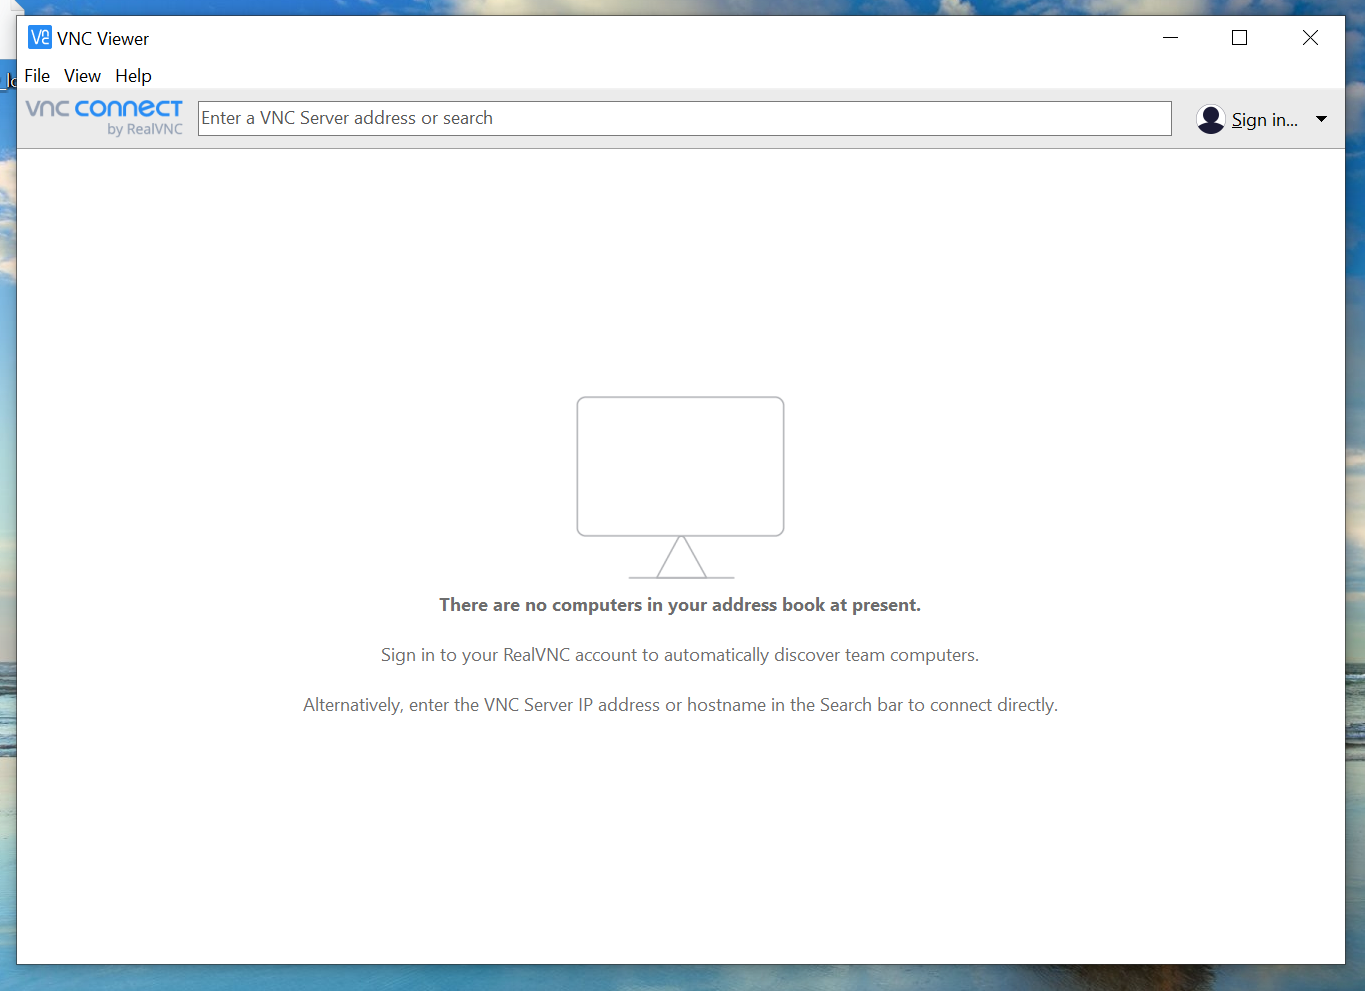
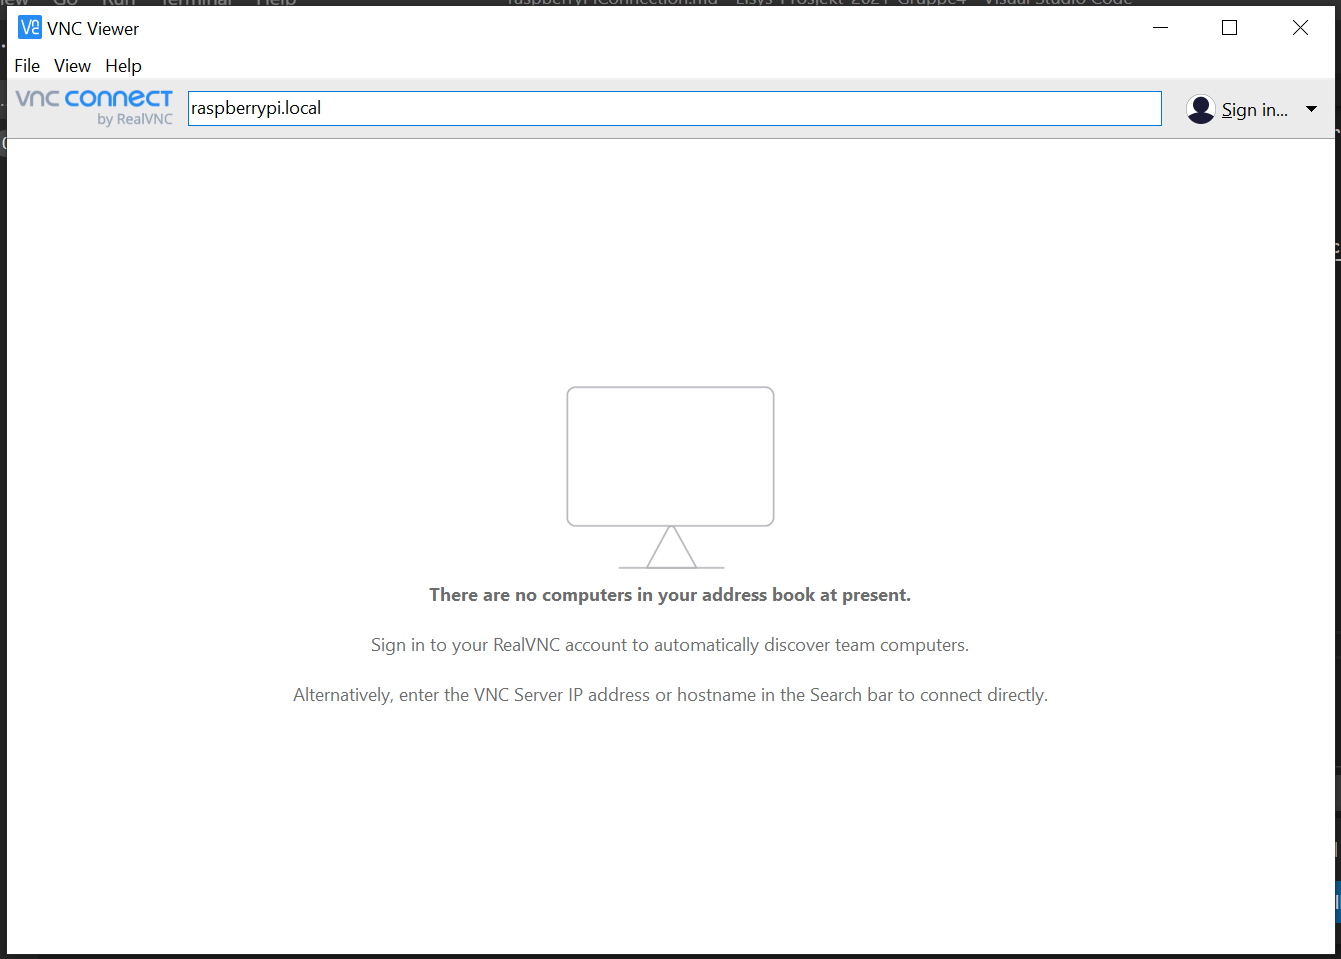
More guiding

diff --git a/raspberryPiConnection.md b/raspberryPiConnection.md
@@ -12,6 +12,23 @@ Nå finnes det to måter å koble til på. Enten ved hjelp av nettverkskabel ell
 
 For å koble til fysisk, må du ha en ethernet-kabel og en pc med ethernet kontakt. Koble så Raspberry Pi sammen med PCen, med kabelen.
 
-Så åpner du *VNC Viewer* og skriver `raspberry.local` i feltet øverst.
+Så åpner du *VNC Viewer* og skriver `raspberrypi.local` i feltet øverst.
 
 ![Start screen of VNCViewer](images/vncBlank.png "VNCViewer")
+
+Så blir du bedt om å logge inn, og da er brukernavnet *pi* og passordet er *password*, som vist på bildet under.
+
+![Login window for VNCViewer and login info.](images/login.png "Login window when logging in through cable.")
+
+Når du trykker *Ok*, så skal du bli koblet inn på Raspberry PIen, og blitt møtt av skrivebordet til PIen, som vist på bildet under.
+
+![Raspberry PIens skrivebord.](images/desktop.png "Skrivebordet til Raspberry PIen.")
+
+### Step 2b - Trådløs tilkobling.
+Hvis du skal koble til trådløst, må du først sørge for at Raspberry PIen og PCen din er tilkoblet samme Wifi. Når de er tilkoblet, så skriver du inn følgende ip-adresse i feltet øverst i *VNCViewer*.
+
+`169.254.154.200`
+
+Deretter bruker du samme innloggingsinfo som for kablet tilkobling.
+
+Du skal nå ha en trådløs tilkobling så lenge enhetene er tilkoblet samme wifi.
